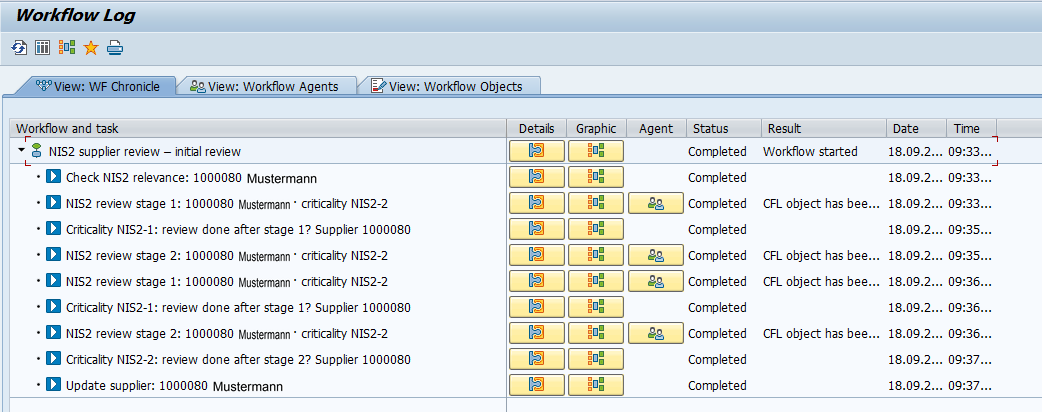
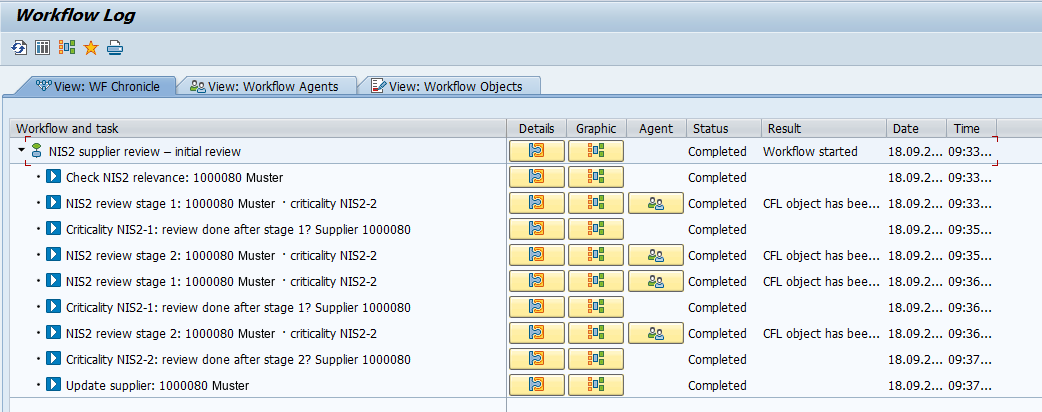
Cleaner retouch: measured size, baseline and weight; e-mail addresses anonymised

diff --git a/public/index.html b/public/index.html
@@ -413,7 +413,7 @@ body.read .stack[style],body.read .stack{gap:18px}
         <div class="label" style="margin-top:34px">In the step text</div>
         <div class="said">Approve from Marketing <em>&sect;{vendor_no}</em> - <em>&sect;{name}</em></div>
         <div class="label" style="margin-top:34px">What the approver sees</div>
-        <div class="says">Approve from Marketing <em>1000060</em> - <em>Mustermann GmbH</em></div>
+        <div class="says">Approve from Marketing <em>1000060</em> - <em>Muster GmbH</em></div>
       </div>
     </div>
   </section>
